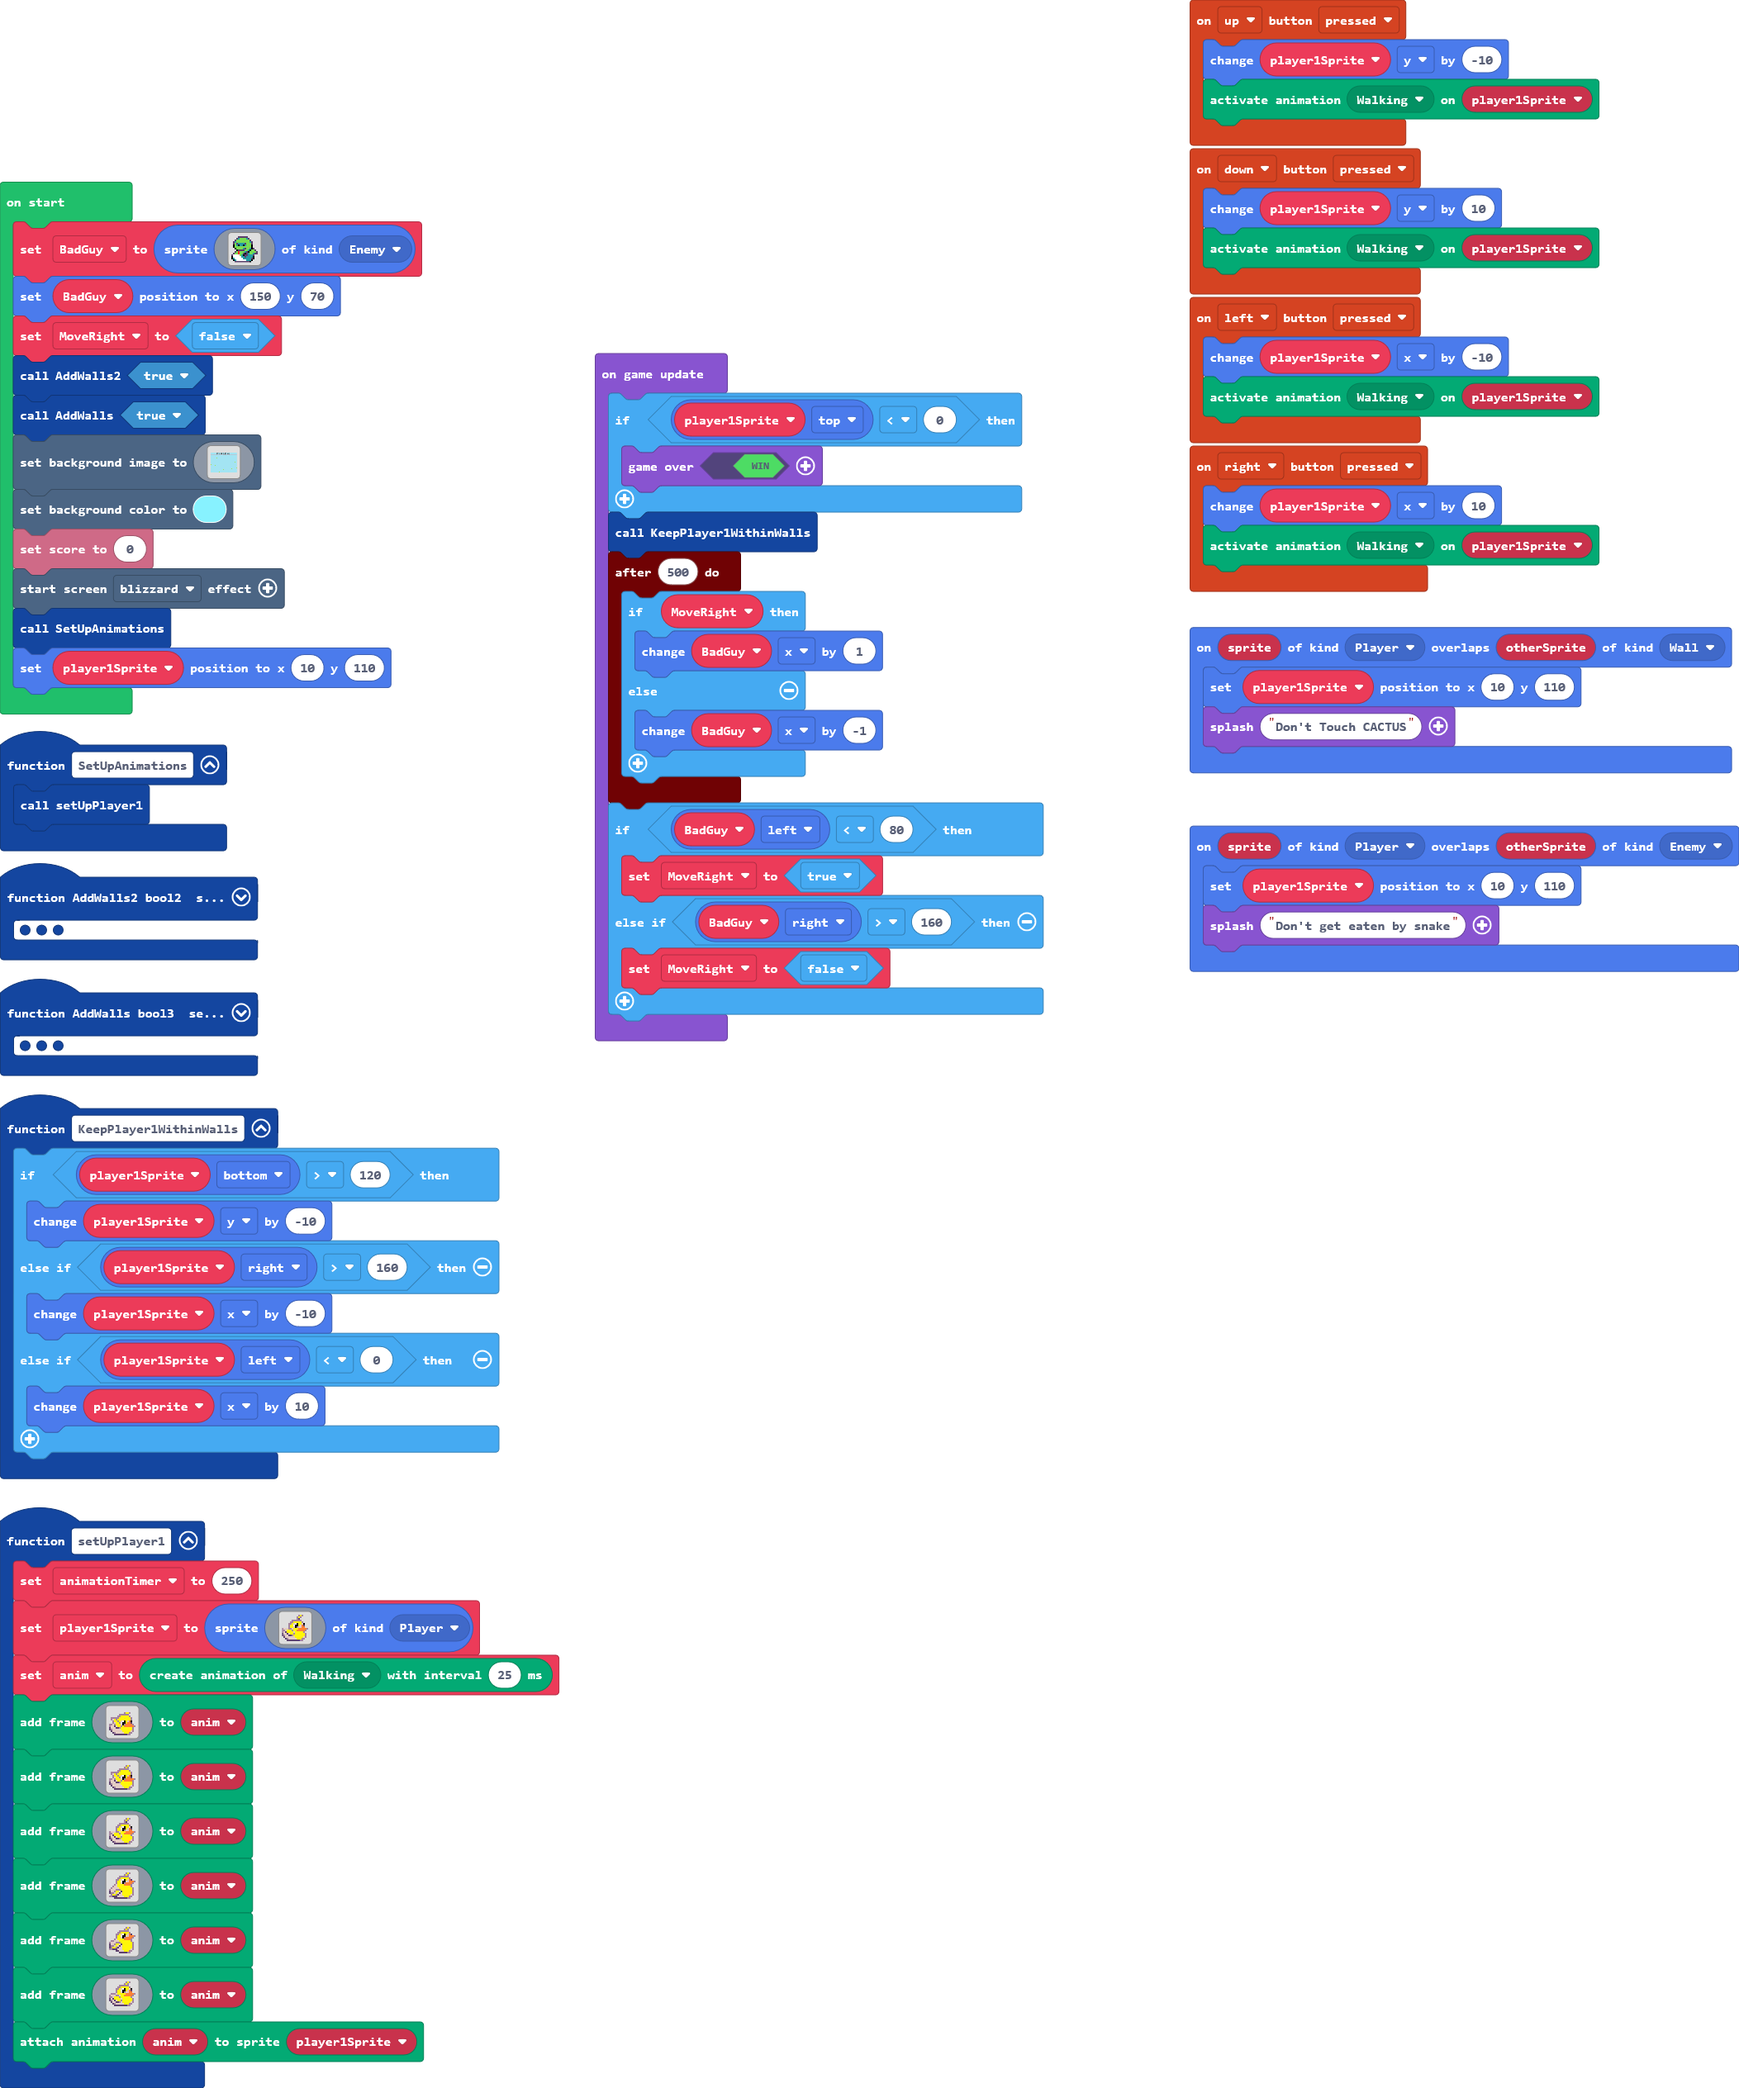
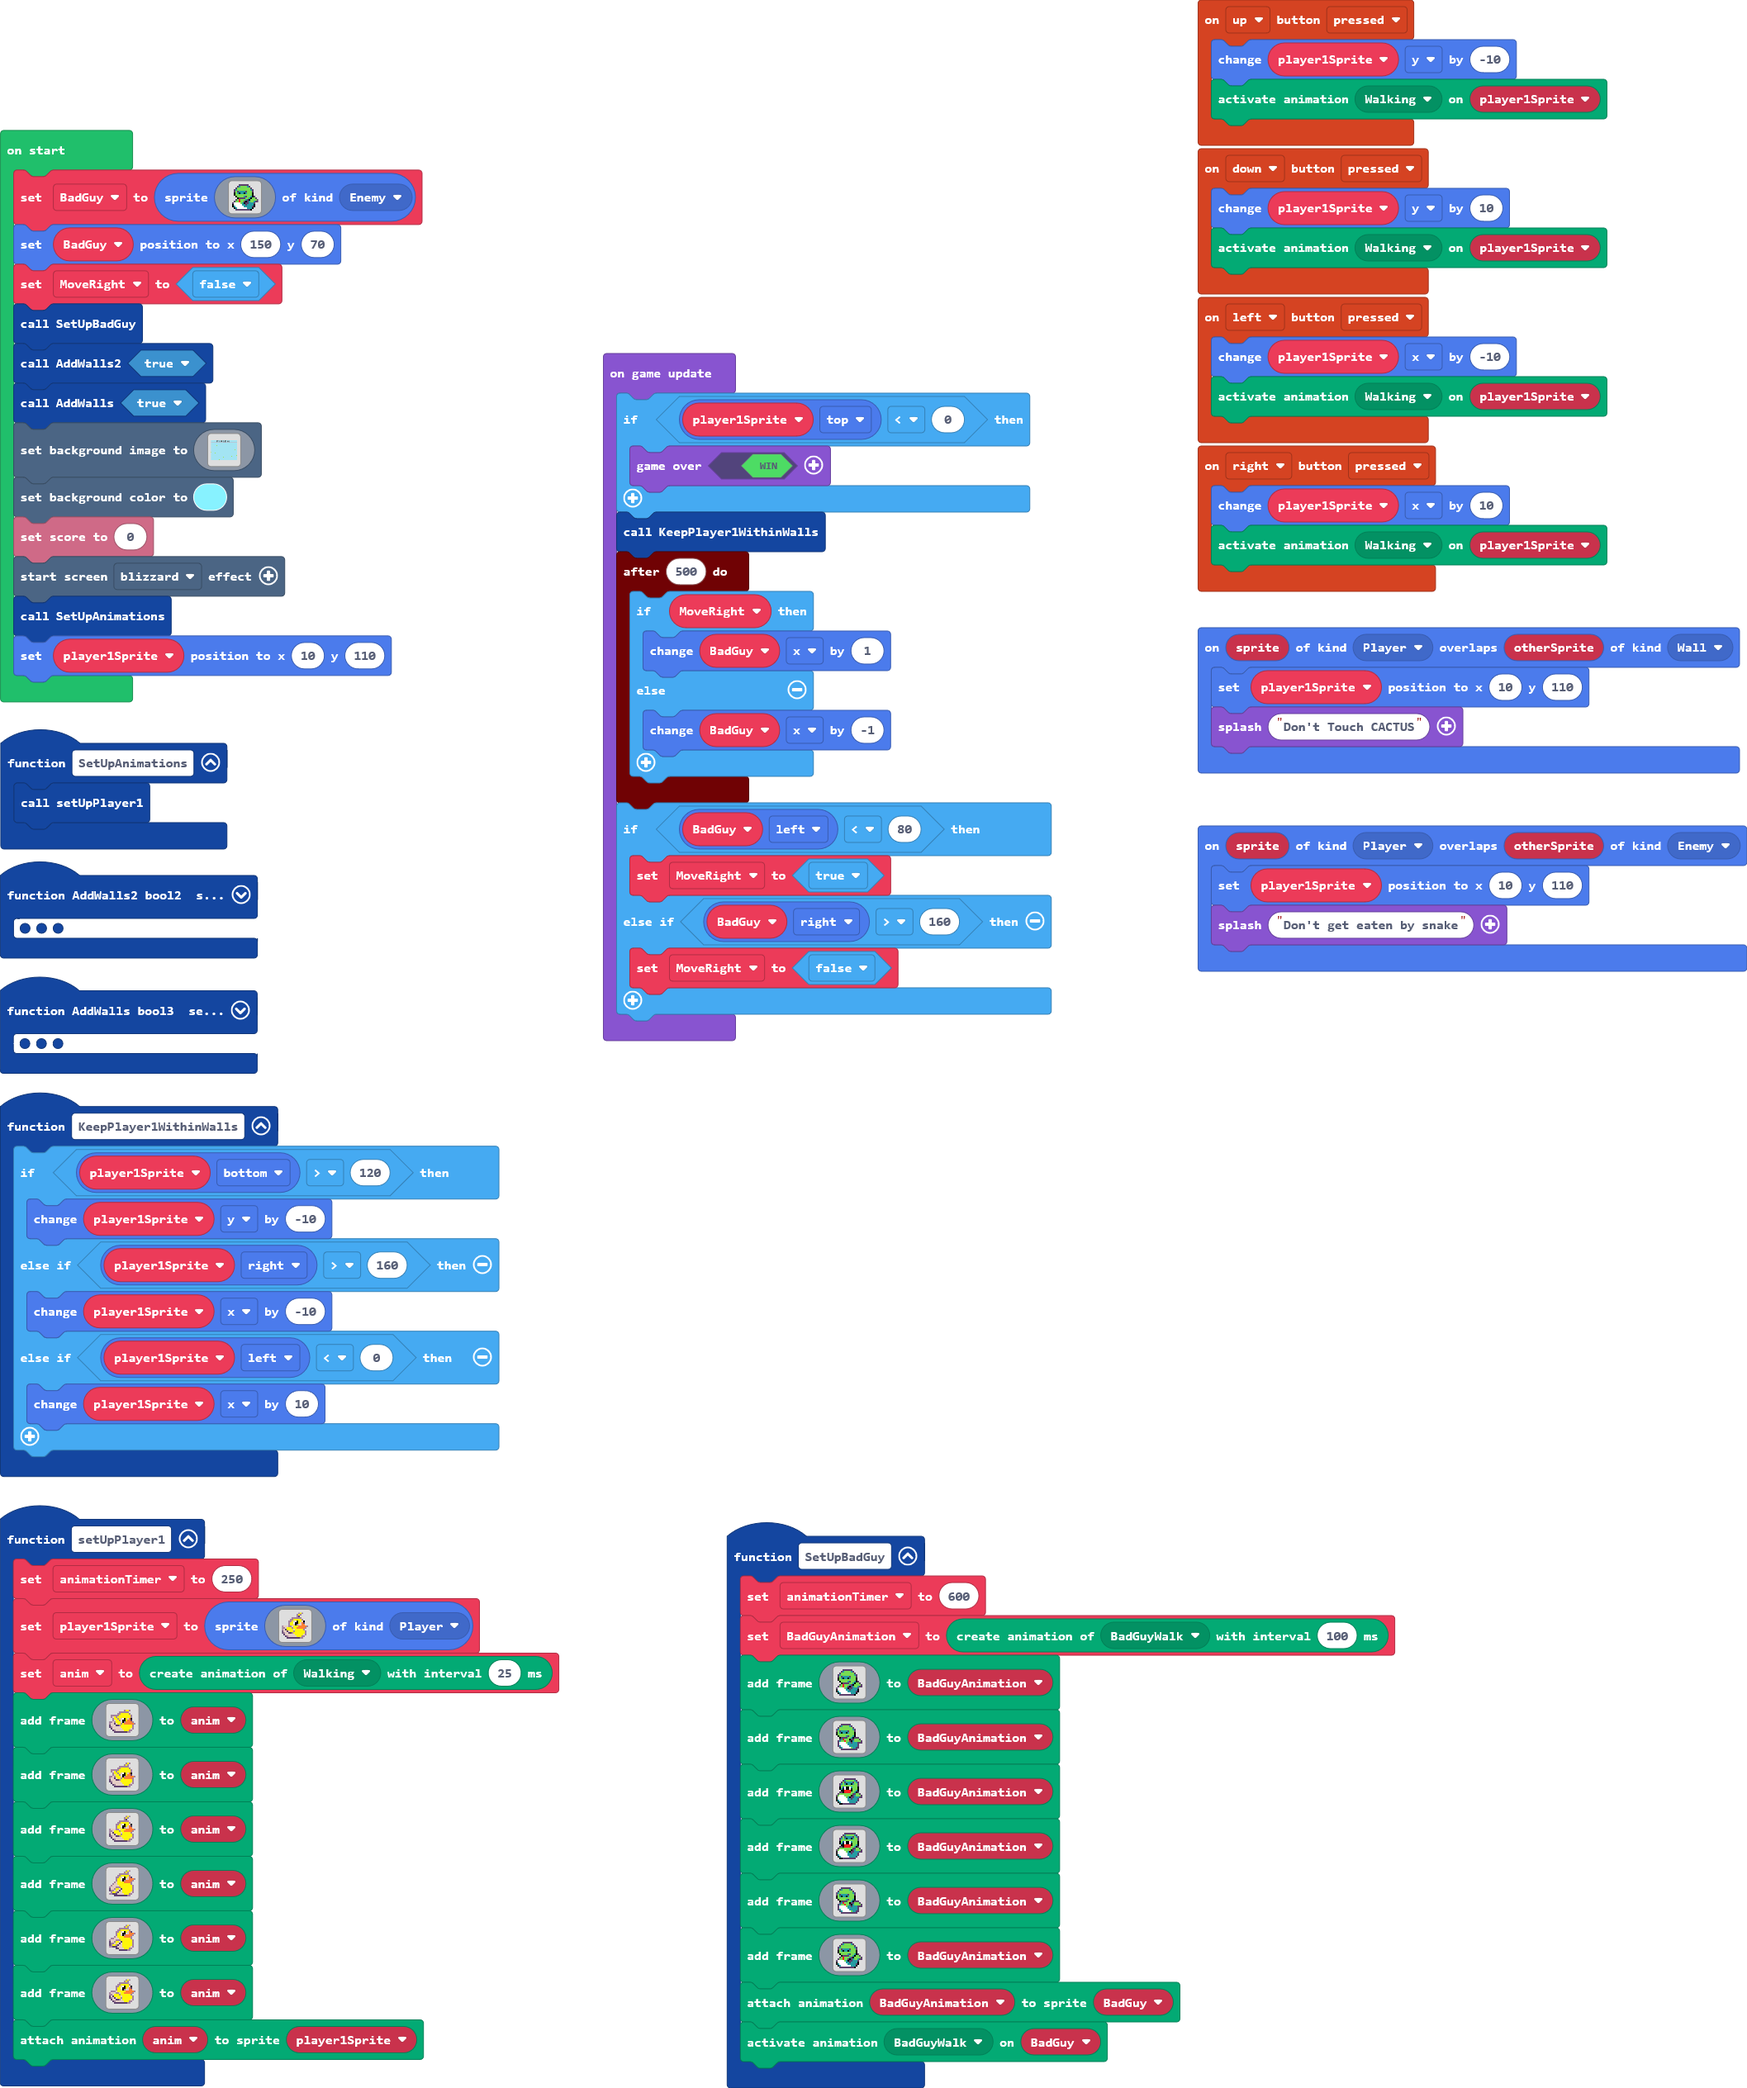
set animation for snake

diff --git a/main.ts b/main.ts
@@ -1,7 +1,8 @@
 enum ActionKind {
     Walking,
     Idle,
-    Jumping
+    Jumping,
+    BadGuyWalk
 }
 namespace SpriteKind {
     export const Gap = SpriteKind.create()
@@ -241,10 +242,125 @@ controller.down.onEvent(ControllerButtonEvent.Pressed, function () {
     player1Sprite.y += 10
     animation.setAction(player1Sprite, ActionKind.Walking)
 })
+function SetUpBadGuy () {
+    animationTimer = 600
+    BadGuyAnimation = animation.createAnimation(ActionKind.BadGuyWalk, 100)
+    BadGuyAnimation.addAnimationFrame(img`
+        . . . . c c c c c c . . . . . . 
+        . . . c 6 7 7 7 7 6 c . . . . . 
+        . . c 7 7 7 7 7 7 7 7 c . . . . 
+        . c 6 7 7 7 7 7 7 7 7 6 c . . . 
+        . c 7 c 6 6 6 6 c 7 7 7 c . . . 
+        . f 7 6 f 6 6 f 6 7 7 7 f . . . 
+        . f 7 7 7 7 7 7 7 7 7 7 f . . . 
+        . . f 7 7 7 7 6 c 7 7 6 f c . . 
+        . . . f c c c c 7 7 6 f 7 7 c . 
+        . . c 7 2 7 7 7 6 c f 7 7 7 7 c 
+        . c 7 7 2 7 7 c f c 6 7 7 6 c c 
+        c 1 1 1 1 7 6 f c c 6 6 6 c . . 
+        f 1 1 1 1 1 6 6 c 6 6 6 6 f . . 
+        f 6 1 1 1 1 1 6 6 6 6 6 c f . . 
+        . f 6 1 1 1 1 1 1 6 6 6 f . . . 
+        . . c c c c c c c c c f . . . . 
+        `)
+    BadGuyAnimation.addAnimationFrame(img`
+        . . . c c c c c c . . . . . . . 
+        . . c 6 7 7 7 7 6 c . . . . . . 
+        . c 7 7 7 7 7 7 7 7 c . . . . . 
+        c 6 7 7 7 7 7 7 7 7 6 c . . . . 
+        c 7 c 6 6 6 6 c 7 7 7 c . . . . 
+        f 7 6 f 6 6 f 6 7 7 7 f . . . . 
+        f 7 7 7 7 7 7 7 7 7 7 f . . . . 
+        . f 7 7 7 7 6 c 7 7 6 f . . . . 
+        . . f c c c c 7 7 6 f c c c . . 
+        . . c 6 2 7 7 7 f c c 7 7 7 c . 
+        . c 6 7 7 2 7 7 c f 6 7 7 7 7 c 
+        . c 1 1 1 1 7 6 6 c 6 6 6 c c c 
+        . c 1 1 1 1 1 6 6 6 6 6 6 c . . 
+        . c 6 1 1 1 1 1 6 6 6 6 6 c . . 
+        . . c 6 1 1 1 1 1 7 6 6 c c . . 
+        . . . c c c c c c c c c c . . . 
+        `)
+    BadGuyAnimation.addAnimationFrame(img`
+        . . . . . c c c c c c c . . . . 
+        . . . . c 6 7 7 7 7 7 6 c . . . 
+        . . . c 7 c 6 6 6 6 c 7 6 c . . 
+        . . c 6 7 6 f 6 6 f 6 7 7 c . . 
+        . . c 7 7 7 7 7 7 7 7 7 7 c . . 
+        . . f 7 8 1 f f 1 6 7 7 7 f . . 
+        . . f 6 f 1 f f 1 f 7 7 7 f . . 
+        . . . f f 2 2 2 2 f 7 7 6 f . . 
+        . . c c f 2 2 2 2 7 7 6 f c . . 
+        . c 7 7 7 7 7 7 7 7 c c 7 7 c . 
+        c 7 1 1 1 7 7 7 7 f c 6 7 7 7 c 
+        f 1 1 1 1 1 7 6 f c c 6 6 6 c c 
+        f 1 1 1 1 1 1 6 6 c 6 6 6 c . . 
+        f 6 1 1 1 1 1 6 6 6 6 6 6 c . . 
+        . f 6 1 1 1 1 1 6 6 6 6 c . . . 
+        . . f f c c c c c c c c . . . . 
+        `)
+    BadGuyAnimation.addAnimationFrame(img`
+        . . . . . c c c c c c c . . . . 
+        . . . . c 6 7 7 7 7 7 6 c . . . 
+        . . . c 7 c 6 6 6 6 c 7 6 c . . 
+        . . c 6 7 6 f 6 6 f 6 7 7 c . . 
+        . . c 7 7 7 7 7 7 7 7 7 7 c . . 
+        . . f 7 8 1 f f 1 6 7 7 7 f . . 
+        . . f 6 f 1 f f 1 f 7 7 7 f . . 
+        . . . f f 2 2 2 2 f 7 7 6 f . . 
+        . . c c f 2 2 2 2 7 7 6 f c . . 
+        . c 7 7 7 7 7 7 7 7 c c 7 7 c . 
+        c 7 1 1 1 7 7 7 7 f c 6 7 7 7 c 
+        f 1 1 1 1 1 7 6 f c c 6 6 6 c c 
+        f 1 1 1 1 1 1 6 6 c 6 6 6 c . . 
+        f 6 1 1 1 1 1 6 6 6 6 6 6 c . . 
+        . f 6 1 1 1 1 1 6 6 6 6 c . . . 
+        . . f f c c c c c c c c . . . . 
+        `)
+    BadGuyAnimation.addAnimationFrame(img`
+        . . . c c c c c c . . . . . . . 
+        . . c 6 7 7 7 7 6 c . . . . . . 
+        . c 7 7 7 7 7 7 7 7 c . . . . . 
+        c 6 7 7 7 7 7 7 7 7 6 c . . . . 
+        c 7 c 6 6 6 6 c 7 7 7 c . . . . 
+        f 7 6 f 6 6 f 6 7 7 7 f . . . . 
+        f 7 7 7 7 7 7 7 7 7 7 f . . . . 
+        . f 7 7 7 7 6 c 7 7 6 f . . . . 
+        . . f c c c c 7 7 6 f c c c . . 
+        . . c 6 2 7 7 7 f c c 7 7 7 c . 
+        . c 6 7 7 2 7 7 c f 6 7 7 7 7 c 
+        . c 1 1 1 1 7 6 6 c 6 6 6 c c c 
+        . c 1 1 1 1 1 6 6 6 6 6 6 c . . 
+        . c 6 1 1 1 1 1 6 6 6 6 6 c . . 
+        . . c 6 1 1 1 1 1 7 6 6 c c . . 
+        . . . c c c c c c c c c c . . . 
+        `)
+    BadGuyAnimation.addAnimationFrame(img`
+        . . . . c c c c c c . . . . . . 
+        . . . c 6 7 7 7 7 6 c . . . . . 
+        . . c 7 7 7 7 7 7 7 7 c . . . . 
+        . c 6 7 7 7 7 7 7 7 7 6 c . . . 
+        . c 7 c 6 6 6 6 c 7 7 7 c . . . 
+        . f 7 6 f 6 6 f 6 7 7 7 f . . . 
+        . f 7 7 7 7 7 7 7 7 7 7 f . . . 
+        . . f 7 7 7 7 6 c 7 7 6 f c . . 
+        . . . f c c c c 7 7 6 f 7 7 c . 
+        . . c 7 2 7 7 7 6 c f 7 7 7 7 c 
+        . c 7 7 2 7 7 c f c 6 7 7 6 c c 
+        c 1 1 1 1 7 6 f c c 6 6 6 c . . 
+        f 1 1 1 1 1 6 6 c 6 6 6 6 f . . 
+        f 6 1 1 1 1 1 6 6 6 6 6 c f . . 
+        . f 6 1 1 1 1 1 1 6 6 6 f . . . 
+        . . c c c c c c c c c f . . . . 
+        `)
+    animation.attachAnimation(BadGuy, BadGuyAnimation)
+    animation.setAction(BadGuy, ActionKind.BadGuyWalk)
+}
 sprites.onOverlap(SpriteKind.Player, SpriteKind.Enemy, function (sprite, otherSprite) {
     player1Sprite.setPosition(10, 110)
     game.splash("Don't get eaten by snake")
 })
+let BadGuyAnimation: animation.Animation = null
 let Wall4: Sprite = null
 let Wall7: Sprite = null
 let anim: animation.Animation = null
@@ -252,7 +368,8 @@ let animationTimer = 0
 let Wall1: Sprite = null
 let Wally = 0
 let player1Sprite: Sprite = null
-let BadGuy = sprites.create(img`
+let BadGuy: Sprite = null
+BadGuy = sprites.create(img`
     . . . . c c c c c c . . . . . . 
     . . . c 6 7 7 7 7 6 c . . . . . 
     . . c 7 7 7 7 7 7 7 7 c . . . . 
@@ -272,6 +389,7 @@ let BadGuy = sprites.create(img`
     `, SpriteKind.Enemy)
 BadGuy.setPosition(150, 70)
 let MoveRight = false
+SetUpBadGuy()
 AddWalls2(true)
 AddWalls(true)
 scene.setBackgroundImage(img`
